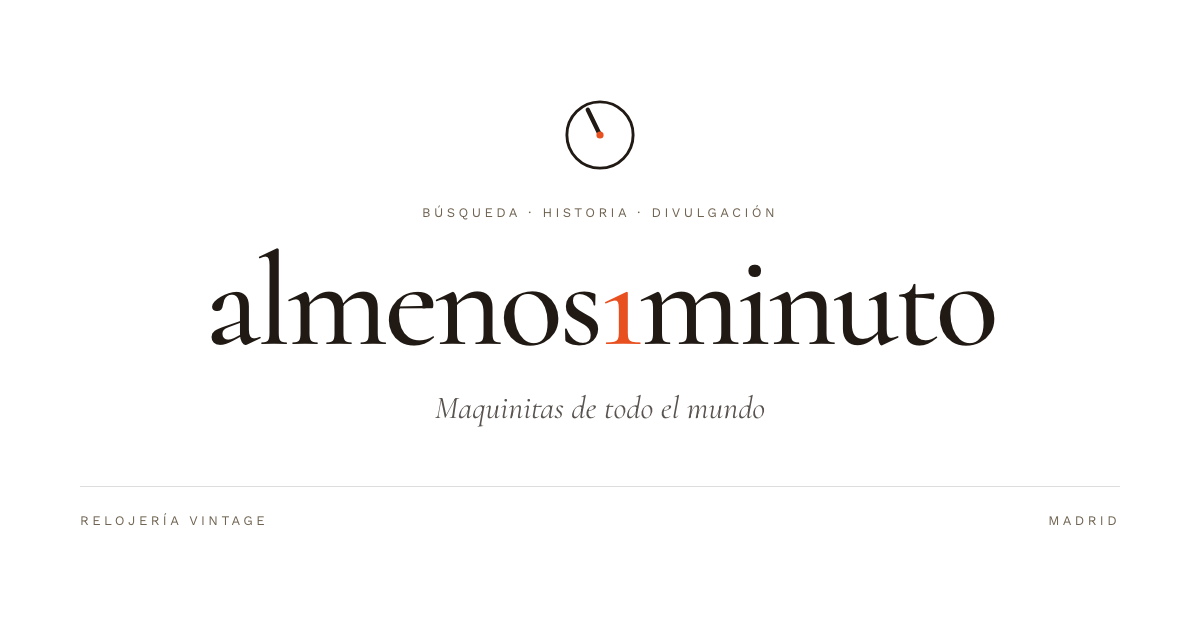
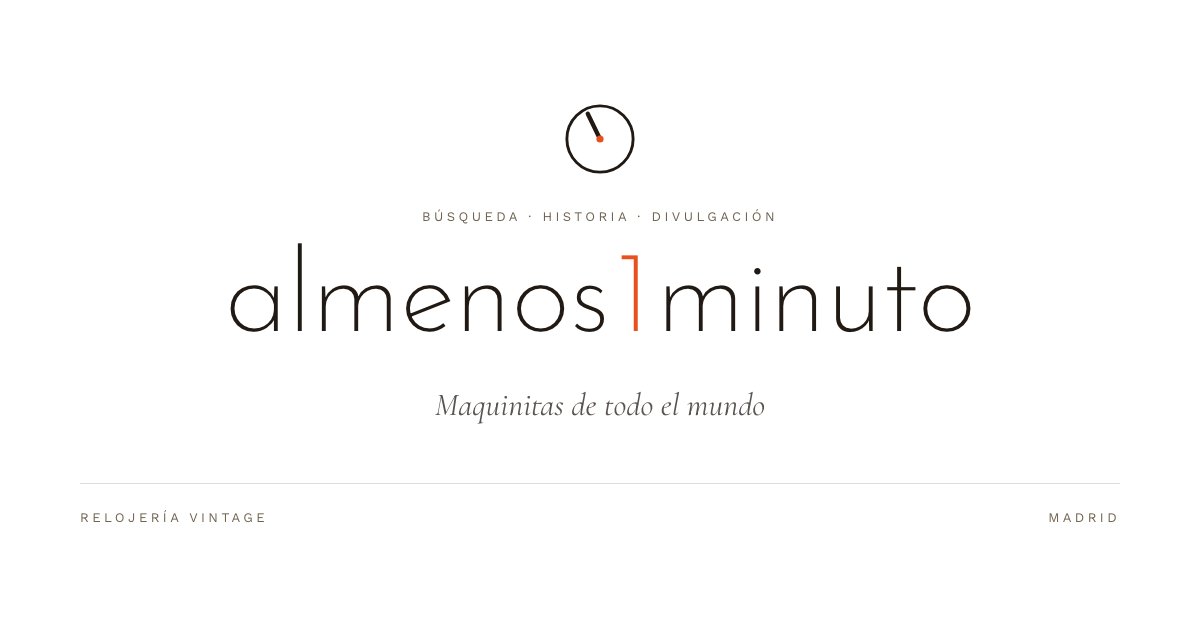
Set the hero wordmark in Josefin Sans at 200
Marcin's call, and the one place the site now speaks in a face of its
own: everything else stays on Cormorant (editorial) and Work Sans
(body), so the logo reads as a mark rather than as the headline font
set larger.

It also delivers the weight that was asked for two changes ago and
could not be honoured. Josefin's variable font carries a wght axis of
100-700; Cormorant stopped at 300, so the earlier 200 request was being
clamped by the browser and only looked like it had been applied.

Knock-ons, all measured rather than carried over:

- Tracking eases -0.03em -> -0.01em. The tight value was drawn for a
  serif; on a geometric sans at 200 it was closing the counters.
- Width re-measured. Josefin sets this string at 6.26em against
  Cormorant's 5.91em, so the existing 9.6vw clamp lands at ~65% of the
  container rather than 61% — inside tolerance, left alone.
- The numeral gets 0.05em of air on each side. Josefin draws "1" as a
  near-bare stem with a short flag, which at 200 collides with the "s"
  and "m" and reads as a bracket. The space is on the span so only the
  numeral moves. This mitigates the glyph, it does not fix it — if it
  still reads wrong, the numeral wants either a heavier weight or the
  serif's "1".
- Share card regenerated against the new face, since it is the same
  lockup and would otherwise have shipped the old one.

diff --git a/components/Hero.tsx b/components/Hero.tsx
@@ -77,29 +77,31 @@ export default function Hero() {
               off the accent token in the one place it can't be mistaken for
               decoration.
 
-              The clamp is measured, not guessed, and it was re-measured when
-              the face changed. Newsreader set this string at 7.19em; Cormorant
-              sets it at 5.91em (measured off the render at 1440: 644px of type
-              at a 109px size). Carrying the old 7.6vw over dropped the wordmark
-              from 58% of the container to 48% — a smaller logo by accident, not
-              by choice. 9.6vw puts it back at ~61%, which is the proportion the
-              reference lockup holds.
+              Josefin Sans, not the page serif — the wordmark is the one place
+              the site speaks in a different voice, so it is a mark rather than
+              a big headline. font-extralight is a real 200 here: Josefin's
+              variable font carries a wght axis of 100–700, where Cormorant
+              stopped at 300 and clamped the request.
 
-              The cap moves with it: 10rem rather than 8rem, still landing where
-              max-w-[100rem] stops the container, so above 1600px the type
-              freezing is the layout being consistent, not the type giving up.
+              The clamp is measured, not guessed, and re-measured on every face
+              change. Newsreader set this string at 7.19em, Cormorant at 5.91em,
+              Josefin at 6.26em — so 9.6vw lands at ~64% of the container here
+              against Cormorant's 61%, close enough to leave alone. The 10rem
+              cap still falls where max-w-[100rem] stops the container, so above
+              1600px the type freezing is the layout being consistent.
 
-              font-light — 300, thin by request. 200 is not available: the
-              Cormorant variable font ships a wght axis of 300–700, so a 200
-              would be clamped back to 300 by the browser and only look like it
-              was honoured. 300 is the real floor.
+              Tracking eases from -0.03em to -0.01em: the serif needed pulling
+              together, a geometric sans set this light does not, and the tight
+              value was closing the counters.
 
-              This is the one heading that goes light. The rest of the page
-              holds 500, because at 28–72px on white the hairlines get spindly;
-              here the type is 154px at the cap, which is where a Garamond this
-              high-contrast wants to be thin. */}
-          <h1 className="mt-9 font-serif text-[clamp(2.5rem,9.6vw,10rem)] font-light leading-[0.9] tracking-[-0.03em] text-paper">
-            almenos<span className="text-brass">1</span>minuto
+              The numeral carries 0.05em of air on each side. Josefin draws "1"
+              as a near-bare stem with a short flag, which at 200 collides with
+              the "s" and "m" either side and reads as a bracket — the one glyph
+              on the page that must be unmistakable. The space is on the span,
+              not the tracking, so only the numeral moves. */}
+          <h1 className="mt-9 font-display text-[clamp(2.5rem,9.6vw,10rem)] font-extralight leading-[0.9] tracking-[-0.01em] text-paper">
+            almenos<span className="mx-[0.05em] inline-block text-brass">1</span>
+            minuto
           </h1>
 
           {/* Her own YouTube line, in Cormorant's real italic — a true cursive

diff --git a/app/layout.tsx b/app/layout.tsx
@@ -1,5 +1,5 @@
 import type { Metadata } from "next";
-import { Cormorant, Work_Sans } from "next/font/google";
+import { Cormorant, Josefin_Sans, Work_Sans } from "next/font/google";
 import SmoothScroll from "@/components/SmoothScroll";
 import "./globals.css";
 
@@ -18,6 +18,19 @@ const cormorant = Cormorant({
   subsets: ["latin"],
   style: ["normal", "italic"],
   variable: "--font-cormorant",
+});
+
+// Josefin Sans, for the hero wordmark only — Marcin's call. It is a geometric
+// sans with a small x-height and long ascenders, which is the opposite of what
+// the rest of the page is set in, and that is the point: the logo stops being
+// "the headline font, bigger" and becomes its own mark. Everything else stays
+// on Cormorant (editorial) and Work Sans (body).
+//
+// Its variable font carries a wght axis of 100–700, so unlike Cormorant it can
+// actually hold the 200 that was asked for earlier.
+const josefin = Josefin_Sans({
+  subsets: ["latin"],
+  variable: "--font-josefin",
 });
 
 const workSans = Work_Sans({
@@ -63,7 +76,7 @@ export default function RootLayout({
   return (
     <html
       lang="es"
-      className={`scroll-smooth ${cormorant.variable} ${workSans.variable}`}
+      className={`scroll-smooth ${cormorant.variable} ${josefin.variable} ${workSans.variable}`}
     >
       <body>
         <SmoothScroll />

diff --git a/app/globals.css b/app/globals.css
@@ -26,6 +26,7 @@
   --color-oxblood: #5e2429; /* oxblood leather — the deep ground */
 
   --font-serif: var(--font-cormorant), Georgia, serif;
+  --font-display: var(--font-josefin), var(--font-work-sans), sans-serif;
   --font-sans: var(--font-work-sans), system-ui, sans-serif;
 }
 
